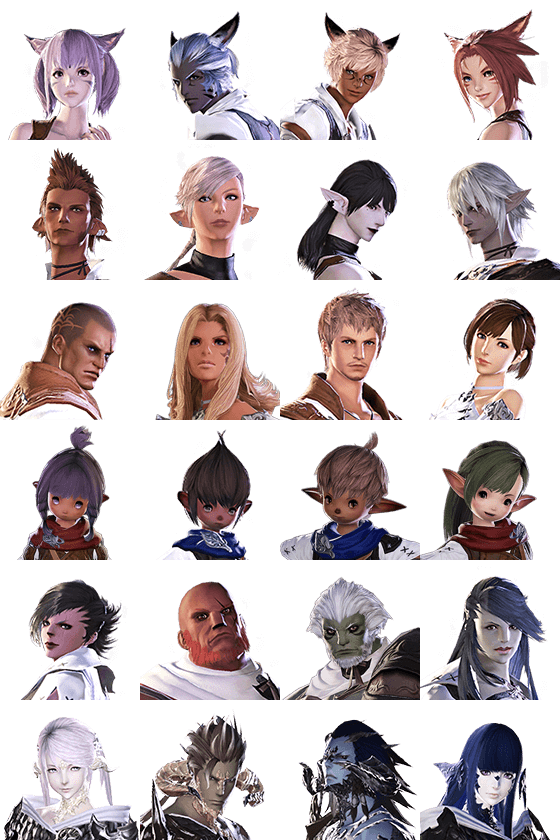
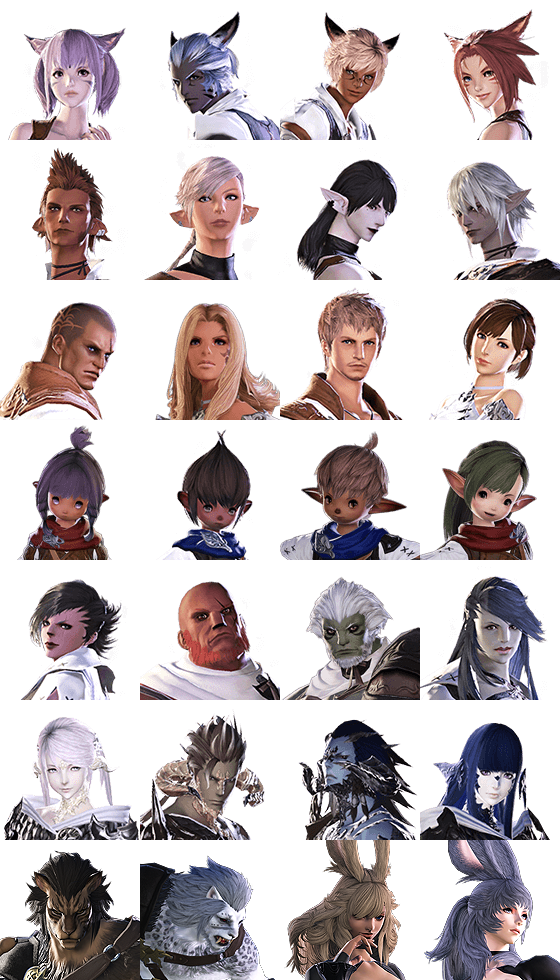
캐릭터 종족 추가

diff --git a/src/scss/launcher.scss b/src/scss/launcher.scss
@@ -294,11 +294,11 @@ html, body {
                     border-radius: 50%;
                     overflow: hidden;
                     background-color: #000;
-                    background-image: url(https://image.ff14.co.kr/html2/img/char.png);
+                    background-image: url(../img/launcher/char.png);    /* 2019.12. 종족 추가 */
                     background-repeat: no-repeat;
-                    background-size: 198px auto;
+                    background-size: 199px auto;
                     &.char_n0 {
-                        background-image: url(https://image.ff14.co.kr/html2/img/char_dummy.png);
+                        background-image: url(../img/launcher/char_dummy.png);  /* 2019.12. 종족 추가 */
                         background-size: 100%; 
                     }
                     &.char_n1 {
@@ -392,10 +392,27 @@ html, body {
                     &.char_n23 {
                         background-position: -100px -250px
                     }
-                    
+                    /* 2019.12. 종족 추가 */
                     &.char_n24 {
                         background-position: -150px -250px
                     }
+                    
+                    &.char_n25 {
+                        background-position: 0 -300px
+                    }
+                    
+                    &.char_n26 {
+                        background-position: -50px -300px
+                    }
+                    
+                    &.char_n27 {
+                        background-position: -100px -300px
+                    }
+                    
+                    &.char_n28 {
+                        background-position: -150px -300px
+                    }
+                    /* //2019.12. 종족 추가 */
                 }
                 .icon-pc {
                     position: absolute;

diff --git a/src/html/launcher/index.html b/src/html/launcher/index.html
@@ -55,7 +55,7 @@
                         char_n0: 등록된 이미지 없음. 
                         char_n1 ~ char_n24까지 공홈과 동일함.
                         -->
-                        <div class="face char_n10"></div>
+                        <div class="face char_n28"></div>
                         <!--//2019.09.30 수정: 캐릭터 이미지-->
                         <span class="icon icon-pc pc">PC방</span>
                     </div>
